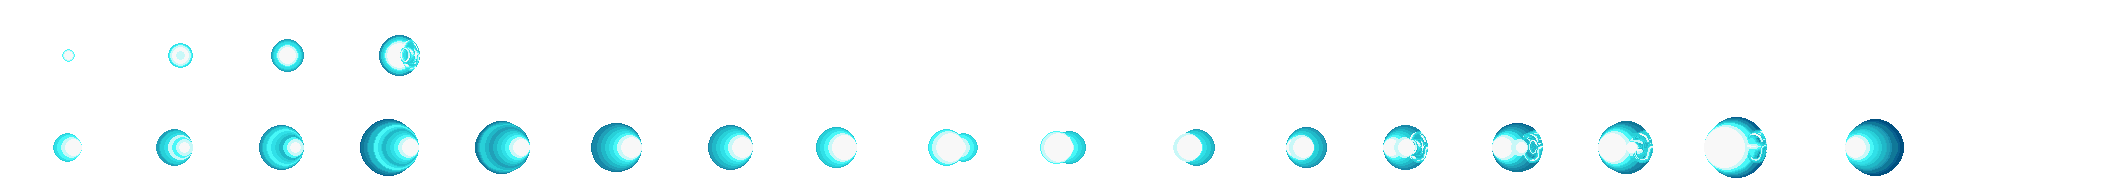
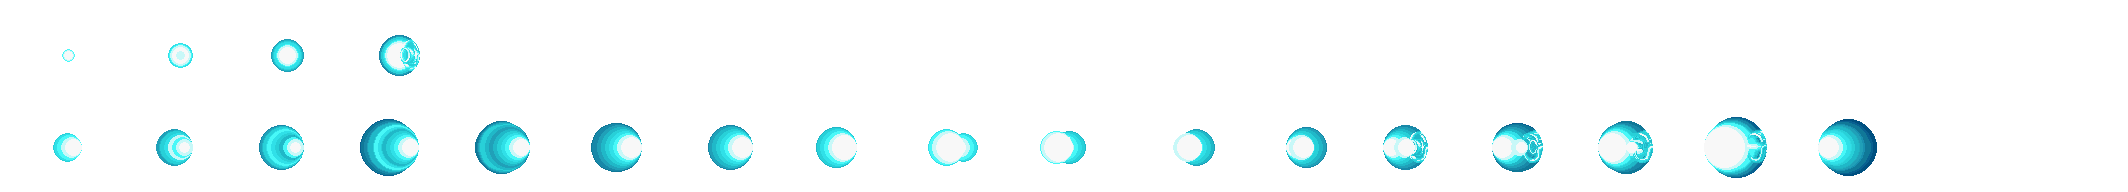
e

Changed region(s): [[0.8374, 0.625, 0.8994, 0.9375]]

diff --git a/Solution/Project1/Boss.cpp b/Solution/Project1/Boss.cpp
@@ -37,6 +37,15 @@ void Boss::Init()
     SetTextureFilter(laserFlashSheet, TEXTURE_FILTER_POINT);
     laserFlashDelay = CHARGE_DURATION / (float)CHARGE_PATTERN_LENGTH;
 
+    Image imgLaserBeam = LoadImage("Graphics/boss/ziuup80x26.png");
+    laserBeamSheet = LoadTextureFromImage(imgLaserBeam);
+    UnloadImage(imgLaserBeam);
+    SetTextureFilter(laserBeamSheet, TEXTURE_FILTER_POINT);
+
+    Image imgBeam = LoadImage("Graphics/boss/beam16x32.png");
+    beamSheet = LoadTextureFromImage(imgBeam);
+    UnloadImage(imgBeam);
+    SetTextureFilter(beamSheet, TEXTURE_FILTER_POINT);
 
     cannonFrame = 9;
     cannonGoingUp = true;
@@ -93,6 +102,17 @@ void Boss::Update(float playerX)
 
     UpdatePlasma(dt);
     UpdateLaserFlash(dt);
+
+    if (phase2 && laserState == LaserState::FIRING && !cannonGoingUp && laserBeamActive) {
+        laserBeamX -= laserBeamSpeed * dt;
+        laserBeamTimer += dt;
+        if (laserBeamTimer >= laserBeamDelay) {
+            laserBeamTimer = 0.0f;
+            laserBeamFrame = (laserBeamFrame + 1) % LASER_BEAM_FRAMES;
+        }
+        if (laserBeamX < -500.0f) laserBeamActive = false;
+    }
+
 }
 
 void Boss::UpdateIntro(float playerX, float dt)
@@ -366,26 +386,79 @@ void Boss::UpdateLaser(float dt)
             laserFrame = 0;
             laserTimer = 0.0f;
             laserFrameTimer = 0.0f;
-            laserFlashFrame = 0;
+            laserFlashFrame = cannonGoingUp ? 15 : 0;
             laserFlashTimer = 0.0f;
-            laserFlashDelay = LASER_DURATION / (float)LASER_FIRE_FRAMES;  // ← nuevo delay para disparo
+            laserFlashDelay = LASER_DURATION / (float)LASER_FIRE_FRAMES;
+            // Activar beam desde la boca del cañón
+            laserBeamX = posX + laserOffsetX;
+            laserBeamActive = true;
+            flashLoopTimer = 0.0f;
         }
         break;
 
     case LaserState::FIRING:
         laserTimer += dt;
 
-        if (laserFrameTimer >= laserFrameDelay) {
-            laserFrameTimer = 0.0f;
-            laserFrame = (laserFrame + 1) % FIRE_FRAMES;
-        }
+        if (cannonGoingUp) {
+            // Fase disparo: durante LASER_DURATION, cañón congelado en frame 5
+            if (laserTimer <= LASER_DURATION) {
+                laserFrame = 5;  // congelado
 
-        if (laserTimer >= LASER_DURATION) {
-            // Terminó — moverse al otro extremo
-            cannonGoingUp = !cannonGoingUp;
-            laserState = LaserState::MOVING;
-            laserFrame = 0;
-            laserFrameTimer = 0.0f;
+                // beam loop 0-1
+                beamRetracting = false;
+                beamTimer += dt;
+                if (beamTimer >= beamDelay) {
+                    beamTimer = 0.0f;
+                    beamFrame = (beamFrame + 1) % BEAM_FRAMES;
+                }
+
+                // explo loop 16-17 — timer separado
+                flashLoopTimer += dt;
+                if (flashLoopTimer >= 0.1f) {
+                    flashLoopTimer = 0.0f;
+                    laserFlashFrame = (laserFlashFrame == 15) ? 16 : 15;
+                }
+            }
+            else {
+                // Fase recogida: animar frames 6-10
+                if (laserFrameTimer >= laserFrameDelay) {
+                    laserFrameTimer = 0.0f;
+                    if (laserFrame < 10)
+                        laserFrame++;
+                    else if (laserFrame == 5)  // primera vez que entra
+                        laserFrame = 6;
+                }
+
+                beamRetracting = true;
+                beamDelay = (5.0f * laserFrameDelay) / (float)BEAM_RET_FRAMES;
+                beamTimer += dt;
+                if (beamTimer >= beamDelay) {
+                    beamTimer = 0.0f;
+                    if (beamFrame < BEAM_RET_FRAMES - 1) beamFrame++;
+                }
+
+                if (laserFrame >= 10) {
+                    cannonGoingUp = !cannonGoingUp;
+                    laserState = LaserState::MOVING;
+                    laserFrame = 0;
+                    laserFrameTimer = 0.0f;
+                    beamFrame = 0;
+                    beamRetracting = false;
+                }
+            }
+        }
+        else {
+            // Abajo — sin cambios
+            if (laserFrameTimer >= laserFrameDelay) {
+                laserFrameTimer = 0.0f;
+                laserFrame = (laserFrame + 1) % FIRE_FRAMES;
+            }
+            if (laserTimer >= LASER_DURATION) {
+                cannonGoingUp = !cannonGoingUp;
+                laserState = LaserState::MOVING;
+                laserFrame = 0;
+                laserFrameTimer = 0.0f;
+            }
         }
         break;
     }
@@ -403,10 +476,11 @@ void Boss::UpdateLaserFlash(float dt)
             laserFlashStep = CHARGE_PATTERN_LENGTH - 1;
         laserFlashFrame = CHARGE_PATTERN[laserFlashStep];
     }
-    else if (laserState == LaserState::FIRING) {
+    else if (laserState == LaserState::FIRING && !cannonGoingUp) {
+        // Solo abajo — arriba lo maneja UpdateLaser directamente
         laserFlashFrame++;
         if (laserFlashFrame >= LASER_FIRE_FRAMES)
-            laserFlashFrame = LASER_FIRE_FRAMES - 1;  // queda en el último frame
+            laserFlashFrame = LASER_FIRE_FRAMES - 1;
     }
 }
 
@@ -460,6 +534,9 @@ void Boss::Draw()
         Rectangle dst = { posX, drawY, CANNON_FRAME_W * CANNON_SCALE, CANNON_FRAME_H * CANNON_SCALE };
         Color tint = (isFlashing && hitFlashCount % 2 == 0) ? Color{ 255, 220, 100, 255 } : WHITE;
         DrawTexturePro(cannonSheet, src, dst, { 0, 0 }, 0.0f, tint);
+
+
+
 
         // ── Destello ──────────────────────────────────────────────
         if (flashActive) {
@@ -614,30 +691,52 @@ void Boss::DrawLaser() const
         return;
     }
 
+    // ── Cañón laser ───────────────────────────────────────────
     float rowY = 0.0f;
     if (laserState == LaserState::CHARGING)
         rowY = cannonGoingUp ? CHARGE_UP_ROW_Y : CHARGE_DOWN_ROW_Y;
     else
         rowY = cannonGoingUp ? FIRE_UP_ROW_Y : FIRE_DOWN_ROW_Y;
 
-    TraceLog(LOG_INFO, "laserFrame=%d rowY=%.0f cannonGoingUp=%d",
-        laserFrame, rowY, (int)cannonGoingUp);
+    // Arriba disparando: congelar en frame 5
+    Rectangle src;
+    if (laserState == LaserState::FIRING && cannonGoingUp && laserFrame == 5)
+        src = { 5 * LASER_FRAME_W, FIRE_UP_ROW_Y, LASER_FRAME_W, LASER_FRAME_H };
+    else
+        src = { laserFrame * LASER_FRAME_W, rowY, LASER_FRAME_W, LASER_FRAME_H };
 
-    Rectangle src = { laserFrame * LASER_FRAME_W, rowY, LASER_FRAME_W, LASER_FRAME_H };
     bool isDown = !cannonGoingUp;
     float laserDrawY = posY + (isDown ? laserOffsetDownY : laserOffsetUpY);
     Rectangle dst = { posX + laserOffsetX, laserDrawY, LASER_FRAME_W * CANNON_SCALE, LASER_FRAME_H * CANNON_SCALE };
     Color tint = (isFlashing && hitFlashCount % 2 == 0) ? Color{ 255,220,100,255 } : WHITE;
     DrawTexturePro(laserSheet, src, dst, { 0,0 }, 0.0f, tint);
 
-    DrawRectangleLinesEx(dst, 2, RED);
-
-    if (laserState == LaserState::FIRING) {
-        float startX = posX;
-        float startY = posY + (LASER_FRAME_H * CANNON_SCALE) / 2.0f;
-        float endX = posX - 2000.0f;
-        DrawLineEx({ startX, startY }, { endX, startY }, 6.0f, { 0, 200, 255, 200 });
+    // ── Beam abajo ────────────────────────────────────────────
+    if (laserState == LaserState::FIRING && !cannonGoingUp && laserBeamActive) {
+        float beamY = posY + laserOffsetDownY + (LASER_FRAME_H * CANNON_SCALE) / 2.0f
+            - (LASER_BEAM_H * CANNON_SCALE) / 2.0f;
+        Rectangle beamSrc = { laserBeamFrame * LASER_BEAM_W, 0.0f, LASER_BEAM_W, LASER_BEAM_H };
+        Rectangle beamDst = { laserBeamX, beamY, LASER_BEAM_W * CANNON_SCALE, LASER_BEAM_H * CANNON_SCALE };
+        DrawTexturePro(laserBeamSheet, beamSrc, beamDst, { 0,0 }, 0.0f, WHITE);
     }
+
+    // ── Beam arriba ───────────────────────────────────────────
+    if (laserState == LaserState::FIRING && cannonGoingUp) {
+        float beamY = posY + laserOffsetUpY + (LASER_FRAME_H * CANNON_SCALE) / 2.0f
+            - (BEAM_H * CANNON_SCALE) / 2.0f;
+        float beamRowY = beamRetracting ? BEAM_H : 0.0f;
+        int   maxFrames = beamRetracting ? BEAM_RET_FRAMES : BEAM_FRAMES;
+        int   drawFrame = (beamFrame < maxFrames) ? beamFrame : maxFrames - 1;
+        Rectangle beamSrc = { drawFrame * BEAM_W, beamRowY, BEAM_W, BEAM_H };
+
+        float x = posX + laserOffsetX + 200.0f;
+        while (x > -500.0f) {
+            x -= BEAM_W * CANNON_SCALE;
+            Rectangle beamDst = { x, beamY, BEAM_W * CANNON_SCALE, BEAM_H * CANNON_SCALE };
+            DrawTexturePro(beamSheet, beamSrc, beamDst, { 0,0 }, 0.0f, WHITE);
+        }
+    }
+
     DrawLaserFlash();
 }
 
@@ -654,23 +753,27 @@ void Boss::DrawTent() const
         : TENT_FRAME_H;  // fila 1
 
     Rectangle src = { frame * TENT_FRAME_W, rowY, TENT_FRAME_W, TENT_FRAME_H };
-    Rectangle dst = { posX + tentOffsetX, posY -30.0f, TENT_FRAME_W * TENT_SCALE, TENT_FRAME_H * TENT_SCALE };
+    Rectangle dst = { posX + tentOffsetX +50.0f, posY -40.0f, TENT_FRAME_W * TENT_SCALE, TENT_FRAME_H * TENT_SCALE };
     DrawTexturePro(tentSheet, src, dst, { 0, 0 }, 0.0f, WHITE);
 }
 
 void Boss::DrawLaserFlash() const
 {
-
-    if (laserState != LaserState::CHARGING) return;
-    float rowY = (laserState == LaserState::FIRING) ? LASER_FLASH_FRAME_H : 0.0f;
-
-    int frame = (laserState == LaserState::FIRING)
-        ? laserFlashFrame      // ← recorre los 17 sprites sin loop
-        : laserFlashFrame;     // patrón fila 0
-    
     bool isDown = !cannonGoingUp;
-    float flashDrawY = posY + (isDown ? laserOffsetDownY -10.0f : laserOffsetUpY);  // ← +50 extra abajo
-    Rectangle dst = { posX + laserOffsetX, flashDrawY, LASER_FLASH_FRAME_W * CANNON_SCALE, LASER_FLASH_FRAME_H * CANNON_SCALE };
-    Rectangle src = { frame * LASER_FLASH_FRAME_W, rowY, LASER_FLASH_FRAME_W, LASER_FLASH_FRAME_H };
-    DrawTexturePro(laserFlashSheet, src, dst, { 0, 0 }, 0.0f, WHITE);
-}
+    float flashDrawY = posY + (isDown ? laserOffsetDownY - 5.0f : laserOffsetUpY);
+    Rectangle dst = { posX + laserOffsetX, flashDrawY,
+                      LASER_FLASH_FRAME_W * CANNON_SCALE, LASER_FLASH_FRAME_H * CANNON_SCALE };
+
+    if (laserState == LaserState::CHARGING) {
+        // Patrón de carga fila 0
+        Rectangle src = { laserFlashFrame * LASER_FLASH_FRAME_W, 0.0f,
+                          LASER_FLASH_FRAME_W, LASER_FLASH_FRAME_H };
+        DrawTexturePro(laserFlashSheet, src, dst, { 0,0 }, 0.0f, WHITE);
+    }
+    else if (laserState == LaserState::FIRING && cannonGoingUp && laserFrame <= 5) {
+        // fila 1, sprites 16-17
+        Rectangle src = { laserFlashFrame * LASER_FLASH_FRAME_W, LASER_FLASH_FRAME_H,
+                          LASER_FLASH_FRAME_W, LASER_FLASH_FRAME_H };
+        DrawTexturePro(laserFlashSheet, src, dst, { 0,0 }, 0.0f, WHITE);
+    }
+    }

diff --git a/Solution/Project1/Boss.hpp b/Solution/Project1/Boss.hpp
@@ -244,5 +244,28 @@ private:
     static constexpr float PRE_INTRO_DELAY = 5.0f;
     bool playerInRange = false;
 
+    Texture2D laserBeamSheet = { 0 };
+    int       laserBeamFrame = 0;
+    float     laserBeamTimer = 0.0f;
+    float     laserBeamDelay = 0.06f;
+    static constexpr float LASER_BEAM_W = 80.0f;
+    static constexpr float LASER_BEAM_H = 26.0f;
+    static constexpr int   LASER_BEAM_FRAMES = 4;
+    float laserBeamX = 0.0f;
+    float laserBeamSpeed = 800.0f;  // píxeles/segundo — ajusta
+    bool  laserBeamActive = false;
+
+    // ── Beam laser arriba ─────────────────────────────────────
+    Texture2D beamSheet = { 0 };
+    int       beamFrame = 0;
+    float     beamTimer = 0.0f;
+    float     beamDelay = 0.1f;
+    bool      beamRetracting = false;  // false=disparando, true=recogiendo
+    float flashLoopTimer = 0.0f;
+
+    static constexpr float BEAM_W = 16.0f;
+    static constexpr float BEAM_H = 32.0f;
+    static constexpr int   BEAM_FRAMES = 2;   // fila 0: loop 0-1
+    static constexpr int   BEAM_RET_FRAMES = 8; // fila 1: sprites 0-7
 
 };
